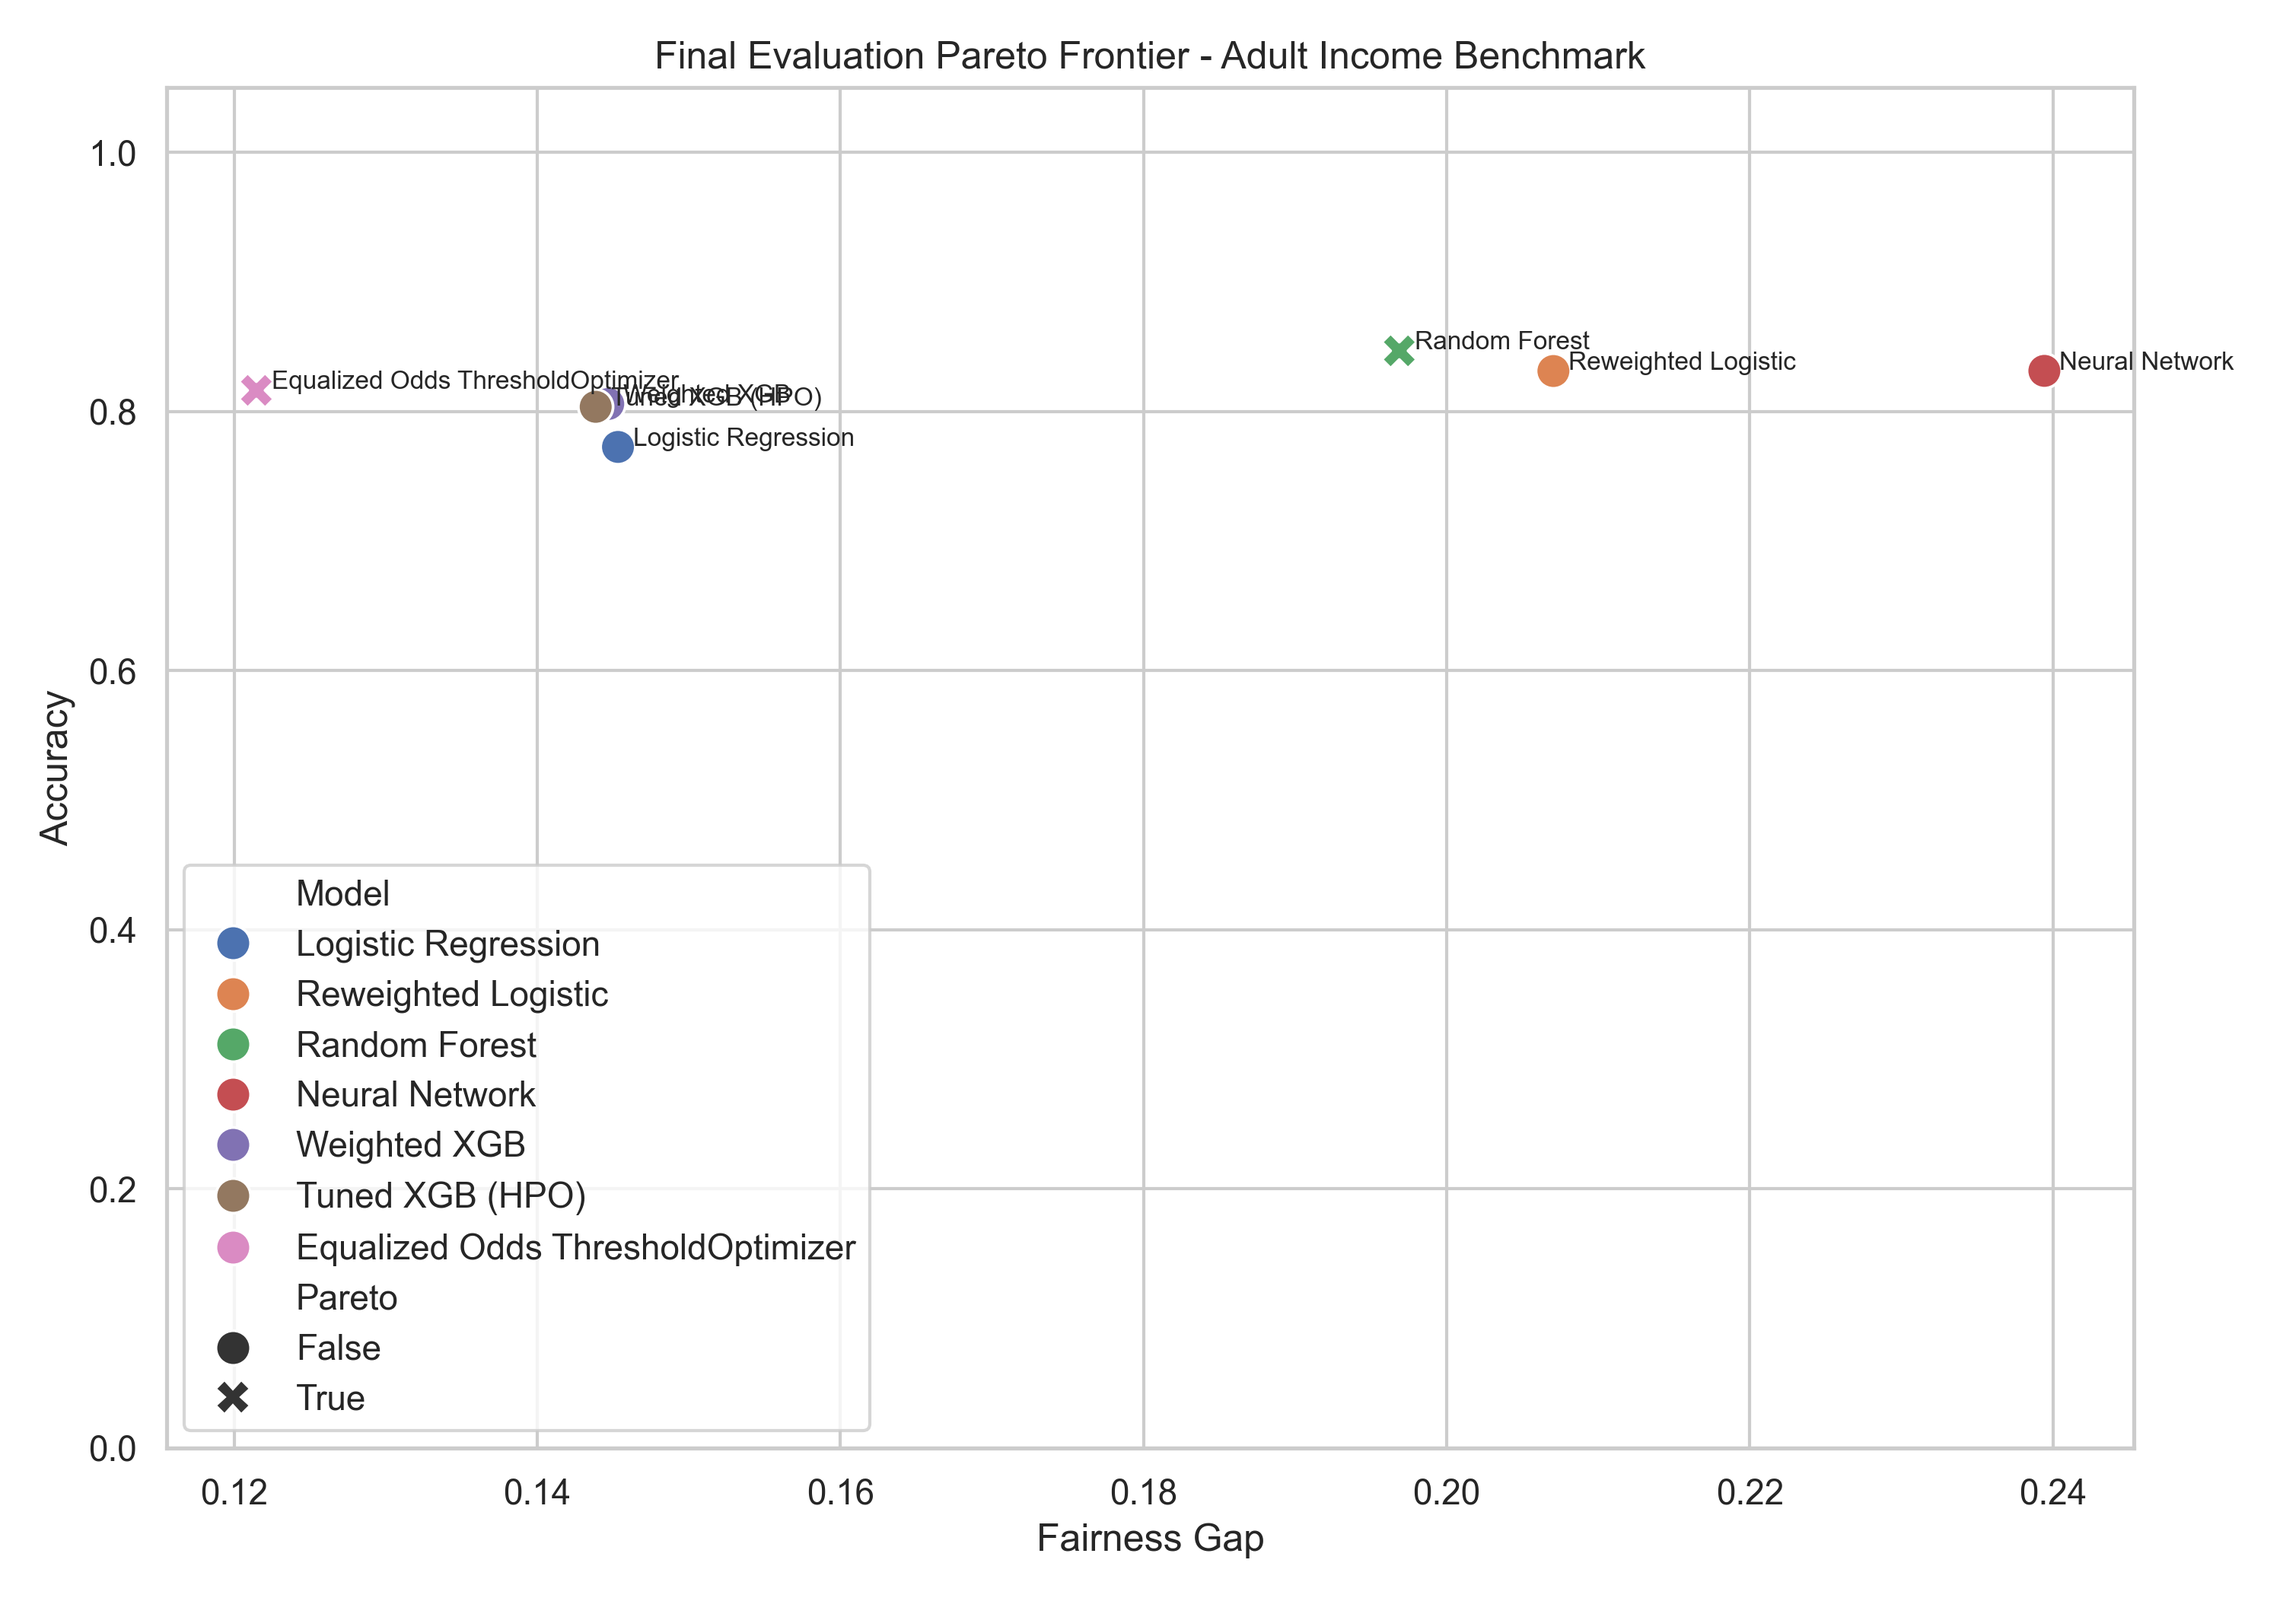
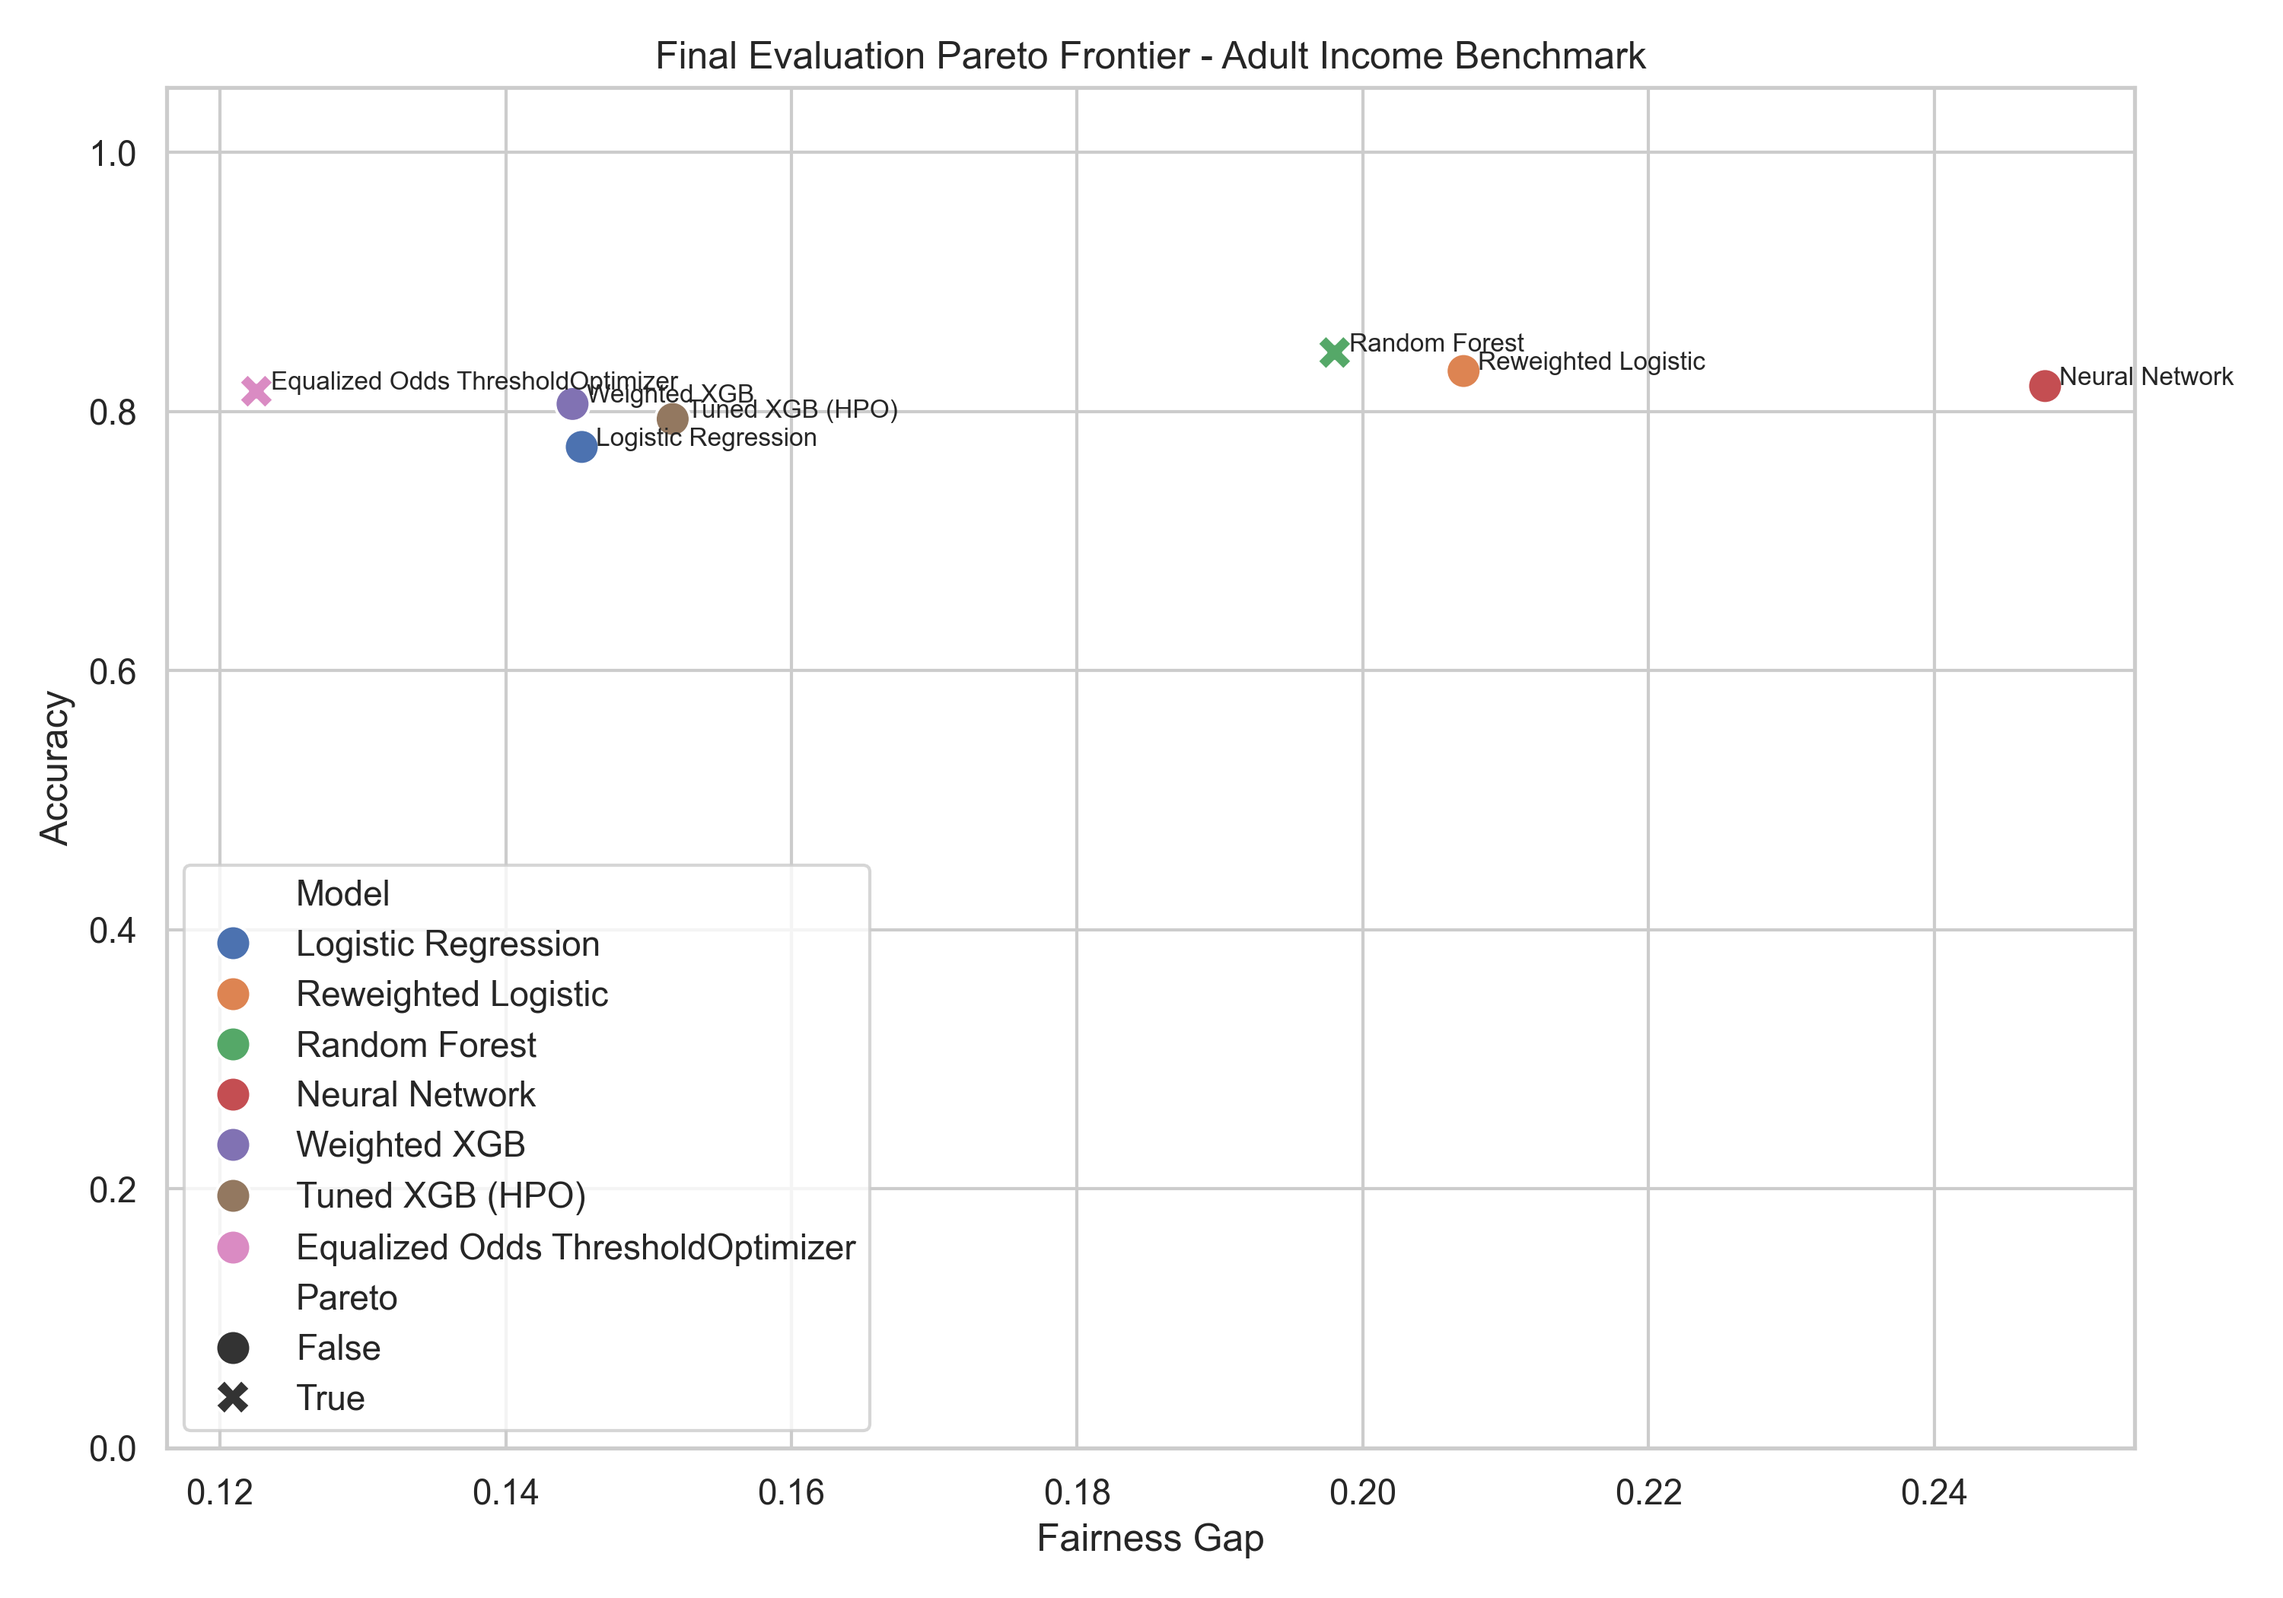
Enhance ML performance via expanded HPO and longer iteration counts

diff --git a/src/main.py b/src/main.py
@@ -1,4 +1,4 @@
-# ============================================================================
+# ============================================================================
 # Educational Inequality in Algorithmic Project Assignment
 # Final Fairness Analysis Pipeline: Causal-style checks, reweighting, subgroup fairness,
 # robustness analysis, and enhanced tradeoff reporting
@@ -46,7 +46,7 @@ from sklearn.pipeline import Pipeline
 from sklearn.preprocessing import OneHotEncoder, StandardScaler
 from sklearn.utils.class_weight import compute_class_weight
 
-import fairness_core as base
+import core as base
 
 
 PROJECT_ROOT = base.PROJECT_ROOT
@@ -224,8 +224,8 @@ def fit_models(x_train: np.ndarray, y_train: np.ndarray, sample_weight: np.ndarr
     models = {
         "Logistic Regression": LogisticRegression(max_iter=2000, class_weight="balanced", random_state=RANDOM_STATE),
         "Reweighted Logistic": LogisticRegression(max_iter=2000, class_weight=None, random_state=RANDOM_STATE),
-        "Random Forest": RandomForestClassifier(n_estimators=120, class_weight="balanced_subsample", random_state=RANDOM_STATE, n_jobs=-1),
-        "Neural Network": MLPClassifier(hidden_layer_sizes=(48, 24), alpha=0.001, max_iter=160, random_state=RANDOM_STATE),
+        "Random Forest": RandomForestClassifier(n_estimators=500, class_weight="balanced_subsample", random_state=RANDOM_STATE, n_jobs=-1),
+        "Neural Network": MLPClassifier(hidden_layer_sizes=(64, 32), alpha=0.001, max_iter=800, random_state=RANDOM_STATE),
         "Weighted XGB": base.xgb.XGBClassifier(
             max_depth=5,
             learning_rate=0.08,
@@ -584,7 +584,7 @@ def evaluate_bundle(bundle: base.DatasetBundle) -> DatasetStudy:
         negative = float(np.sum(y_train == 0))
         scale_pos_weight = max(negative / max(positive, 1.0), 1.0)
         # Increase budget for a better search (may be slower)
-        hpo_budget = 24
+        hpo_budget = 150
         best_params, history = base.bayesian_optimize_xgb(x_train, y_train, s_train, scale_pos_weight, budget=hpo_budget)
         tuned_xgb = base.build_xgb_model(best_params, scale_pos_weight)
         try:
@@ -702,10 +702,12 @@ def main() -> None:
 
     studies = [evaluate_bundle(bundle) for bundle in bundles]
     summary = summarize(studies)
-    summary.to_csv(DOCS_DIR / "final_metrics_summary.csv", index=False)
+    summary.to_csv(DOCS_DIR / "metrics_summary.csv", index=False)
 
     for study in studies:
-        plot_pareto(study.results, PLOTS_DIR / f"{study.bundle.name.lower().replace(' ', '_')}_pareto_final.png", f"Final Evaluation Pareto Frontier - {study.bundle.name}")
+        name_map = {"Delhivery Logistics": "delhivery", "Adult Income Benchmark": "adult", "Amazon Last-Mile Routes": "amazon"}
+        short_name = name_map.get(study.bundle.name, study.bundle.name.lower().replace(' ', '_'))
+        plot_pareto(study.results, PLOTS_DIR / f"{short_name}_pareto.png", f"Final Evaluation Pareto Frontier - {study.bundle.name}")
         if study.best_result.y_prob is not None:
             sns.set_theme(style="whitegrid")
             plt.figure(figsize=(10, 6))
@@ -716,16 +718,16 @@ def main() -> None:
             plt.xlabel("Fairness Gap")
             plt.ylabel("Accuracy")
             plt.tight_layout()
-            plt.savefig(PLOTS_DIR / f"{study.bundle.name.lower().replace(' ', '_')}_tradeoff_final.png", dpi=300)
+            plt.savefig(PLOTS_DIR / f"{short_name}_tradeoff.png", dpi=300)
             plt.close()
 
-    write_report(studies, DOCS_DIR / "TECHNICAL_APPENDIX.md")
-    causal_graph_markdown(DOCS_DIR / "Causal_Graph_Appendix.md")
+    write_report(studies, DOCS_DIR / "technical_appendix.md")
+    causal_graph_markdown(DOCS_DIR / "causal_graph.md")
 
     print("Final Evaluation complete")
-    print(f"Report: {DOCS_DIR / 'TECHNICAL_APPENDIX.md'}")
-    print(f"Metrics: {DOCS_DIR / 'final_metrics_summary.csv'}")
-    print(f"Causal graph appendix: {DOCS_DIR / 'Causal_Graph_Appendix.md'}")
+    print(f"Report: {DOCS_DIR / 'technical_appendix.md'}")
+    print(f"Metrics: {DOCS_DIR / 'metrics_summary.csv'}")
+    print(f"Causal graph appendix: {DOCS_DIR / 'causal_graph.md'}")
 
 
 if __name__ == "__main__":

diff --git a/src/core.py b/src/core.py
@@ -572,9 +572,9 @@ def vector_to_xgb_params(vector: Sequence[float]) -> Dict[str, float]:
 
 def sample_random_xgb_params(rng: np.random.Generator) -> Dict[str, float]:
     return {
-        "max_depth": int(rng.integers(3, 9)),
+        "max_depth": int(rng.integers(3, 12)),
         "learning_rate": float(rng.uniform(0.02, 0.18)),
-        "n_estimators": int(rng.integers(140, 360)),
+        "n_estimators": int(rng.integers(100, 1000)),
         "subsample": float(rng.uniform(0.65, 1.0)),
         "colsample_bytree": float(rng.uniform(0.65, 1.0)),
         "min_child_weight": int(rng.integers(1, 8)),

diff --git a/docs/TECHNICAL_APPENDIX.md b/docs/TECHNICAL_APPENDIX.md
@@ -1,6 +1,6 @@
 # Final Evaluation Results and Research Appendix
 
-_Generated on 2026-05-04 19:53:16_
+_Generated on 2026-08-09 17:26:40_
 
 ## What this report adds
 - Reweighting-based fairness intervention
@@ -42,14 +42,14 @@ Education can act as a signaling variable, and platform assignment systems may a
 |---|---:|---:|---:|---:|---:|
 | Logistic Regression | 0.7231 | 0.7558 | 0.0764 | 0.0151 | 0.7103 |
 | Reweighted Logistic | 0.8650 | 0.6542 | 0.0347 | 0.0236 | 0.6669 |
-| Random Forest | 0.9744 | 0.9472 | 0.0182 | 0.0242 | 0.7653 |
-| Neural Network | 0.9305 | 0.8750 | 0.0330 | 0.0239 | 0.7415 |
+| Random Forest | 0.9752 | 0.9492 | 0.0205 | 0.0276 | 0.7693 |
+| Neural Network | 0.9359 | 0.8673 | 0.0295 | 0.0236 | 0.7526 |
 | Weighted XGB | 0.9391 | 0.9374 | 0.0272 | 0.0445 | 0.7933 |
-| Tuned XGB (HPO) | 0.9754 | 0.9679 | 0.0200 | 0.0223 | 0.7704 |
-| Equalized Odds ThresholdOptimizer | 0.8620 | 0.7184 | 0.0287 | 0.0626 | 0.8046 |
+| Tuned XGB (HPO) | 0.9759 | 0.9693 | 0.0249 | 0.0364 | 0.7875 |
+| Equalized Odds ThresholdOptimizer | 0.8613 | 0.7172 | 0.0245 | 0.0677 | 0.8389 |
 
 ### Best model: Tuned XGB (HPO)
-- Composite score: 0.9629
+- Composite score: 0.9631
 - Welfare loss proxy: 0.0000
 
 ### Robustness checks
@@ -60,25 +60,25 @@ Education can act as a signaling variable, and platform assignment systems may a
 ### Subgroup fairness: Education Tiers
 | Subgroup | Value | Count | Accuracy | Positive Rate |
 |---|---|---|---|---|
-| Education | Bachelor's | 6355 | 0.9736 | 0.1862 |
-| Education | High School | 5097 | 0.9786 | 0.1544 |
-| Education | Master's | 17522 | 0.9751 | 0.2004 |
+| Education | Bachelor's | 6355 | 0.9751 | 0.1849 |
+| Education | High School | 5097 | 0.9770 | 0.1579 |
+| Education | Master's | 17522 | 0.9759 | 0.2005 |
 
 ### Subgroup fairness: Experience Levels
 | Subgroup | Value | Count | Accuracy | Positive Rate |
 |---|---|---|---|---|
-| Experience | High | 7244 | 0.9569 | 0.3417 |
-| Experience | Low | 7244 | 0.9855 | 0.0995 |
-| Experience | Mid-High | 7243 | 0.9731 | 0.1940 |
-| Experience | Mid-Low | 7243 | 0.9859 | 0.1216 |
+| Experience | High | 7244 | 0.9564 | 0.3444 |
+| Experience | Low | 7244 | 0.9862 | 0.0991 |
+| Experience | Mid-High | 7243 | 0.9750 | 0.1932 |
+| Experience | Mid-Low | 7243 | 0.9861 | 0.1218 |
 
 ### Subgroup fairness: Geography Proxies
 | Subgroup | Value | Count | Accuracy | Positive Rate |
 |---|---|---|---|---|
-| Geography | Far | 7243 | 0.9776 | 0.1550 |
-| Geography | Moderate | 7243 | 0.9504 | 0.3541 |
-| Geography | Near | 7244 | 0.9818 | 0.2051 |
-| Geography | Very Far | 7244 | 0.9916 | 0.0425 |
+| Geography | Far | 7243 | 0.9780 | 0.1557 |
+| Geography | Moderate | 7243 | 0.9511 | 0.3554 |
+| Geography | Near | 7244 | 0.9818 | 0.2057 |
+| Geography | Very Far | 7244 | 0.9927 | 0.0417 |
 
 ## Adult Income Benchmark
 
@@ -91,11 +91,11 @@ Education can act as a signaling variable, and platform assignment systems may a
 |---|---:|---:|---:|---:|---:|
 | Logistic Regression | 0.7726 | 0.8019 | 0.1453 | 0.3507 | 0.6410 |
 | Reweighted Logistic | 0.8312 | 0.7363 | 0.2070 | 0.2853 | 0.3781 |
-| Random Forest | 0.8468 | 0.7685 | 0.1969 | 0.2126 | 0.3514 |
-| Neural Network | 0.8313 | 0.7413 | 0.2394 | 0.2248 | 0.3127 |
+| Random Forest | 0.8454 | 0.7670 | 0.1980 | 0.2196 | 0.3551 |
+| Neural Network | 0.8196 | 0.7455 | 0.2477 | 0.2507 | 0.3435 |
 | Weighted XGB | 0.8057 | 0.8245 | 0.1447 | 0.3367 | 0.5987 |
-| Tuned XGB (HPO) | 0.8035 | 0.8227 | 0.1439 | 0.3392 | 0.5992 |
-| Equalized Odds ThresholdOptimizer | 0.8163 | 0.7267 | 0.1215 | 0.3212 | 0.5531 |
+| Tuned XGB (HPO) | 0.7941 | 0.8184 | 0.1517 | 0.3539 | 0.6344 |
+| Equalized Odds ThresholdOptimizer | 0.8156 | 0.7256 | 0.1225 | 0.3156 | 0.5547 |
 
 ### Best model: Weighted XGB
 - Composite score: 0.7883
@@ -149,14 +149,14 @@ Education can act as a signaling variable, and platform assignment systems may a
 |---|---:|---:|---:|---:|---:|
 | Logistic Regression | 0.6288 | 0.6211 | 0.0699 | 0.0260 | 0.8190 |
 | Reweighted Logistic | 0.6271 | 0.6063 | 0.0793 | 0.0747 | 0.7888 |
-| Random Forest | 0.6656 | 0.6488 | 0.1154 | 0.0704 | 0.6507 |
-| Neural Network | 0.6410 | 0.6285 | 0.1063 | 0.0897 | 0.7123 |
+| Random Forest | 0.6631 | 0.6469 | 0.1169 | 0.1040 | 0.6675 |
+| Neural Network | 0.6419 | 0.6298 | 0.0906 | 0.0344 | 0.7392 |
 | Weighted XGB | 0.6476 | 0.6379 | 0.0945 | 0.0607 | 0.7432 |
-| Tuned XGB (HPO) | 0.6541 | 0.6476 | 0.0904 | 0.0770 | 0.7743 |
-| Equalized Odds ThresholdOptimizer | 0.6149 | 0.5987 | 0.0651 | 0.0375 | 0.8714 |
+| Tuned XGB (HPO) | 0.6631 | 0.6562 | 0.1145 | 0.0887 | 0.7181 |
+| Equalized Odds ThresholdOptimizer | 0.6198 | 0.6026 | 0.0652 | 0.0224 | 0.8663 |
 
 ### Best model: Tuned XGB (HPO)
-- Composite score: 0.6250
+- Composite score: 0.6276
 - Welfare loss proxy: 0.0000
 
 ### Robustness checks
@@ -169,22 +169,22 @@ Education can act as a signaling variable, and platform assignment systems may a
 ### Subgroup fairness: Education Tiers
 | Subgroup | Value | Count | Accuracy | Positive Rate |
 |---|---|---|---|---|
-| Education | Bachelor's | 276 | 0.6630 | 0.4058 |
-| Education | High School | 222 | 0.6937 | 0.3514 |
-| Education | Master's | 725 | 0.6386 | 0.4538 |
+| Education | Bachelor's | 276 | 0.6812 | 0.3949 |
+| Education | High School | 222 | 0.6892 | 0.3288 |
+| Education | Master's | 725 | 0.6483 | 0.4579 |
 
 ### Subgroup fairness: Experience Levels
 | Subgroup | Value | Count | Accuracy | Positive Rate |
 |---|---|---|---|---|
-| Experience | Afternoon | 1065 | 0.6460 | 0.4554 |
-| Experience | Morning | 158 | 0.7089 | 0.2152 |
+| Experience | Afternoon | 1065 | 0.6554 | 0.4441 |
+| Experience | Morning | 158 | 0.7152 | 0.2595 |
 
 ### Subgroup fairness: Geography Proxies
 | Subgroup | Value | Count | Accuracy | Positive Rate |
 |---|---|---|---|---|
-| Geography | DBO3 | 122 | 0.7541 | 0.1639 |
-| Geography | DLA7 | 227 | 0.5991 | 0.3304 |
-| Geography | DLA9 | 141 | 0.6241 | 0.5957 |
-| Geography | DSE4 | 88 | 0.6591 | 0.6477 |
-| Geography | DSE5 | 106 | 0.6792 | 0.4528 |
-| Geography | Other | 539 | 0.6568 | 0.4360 |
+| Geography | DBO3 | 122 | 0.7295 | 0.2049 |
+| Geography | DLA7 | 227 | 0.6388 | 0.3524 |
+| Geography | DLA9 | 141 | 0.6241 | 0.5816 |
+| Geography | DSE4 | 88 | 0.6364 | 0.5795 |
+| Geography | DSE5 | 106 | 0.7358 | 0.4151 |
+| Geography | Other | 539 | 0.6586 | 0.4304 |

diff --git a/README.md b/README.md
@@ -20,13 +20,13 @@ Evaluated on multiple logistics and benchmark datasets. The results demonstrate 
 | Model | Accuracy | Fairness Gap | Predictive Parity Diff | DI Ratio |
 | :--- | :---: | :---: | :---: | :---: |
 | **Logistic Regression (Baseline)** | 0.723 | 0.076 | 0.015 | 0.710 |
-| **Tuned XGB (HPO) (Proposed)** | 0.975 | 0.020 | 0.022 | 0.770 |
+| **Tuned XGB (HPO) (Proposed)** | 0.976 | 0.025 | 0.036 | 0.788 |
 
 ### Amazon Last-Mile Routes
 | Model | Accuracy | Fairness Gap | Predictive Parity Diff | DI Ratio |
 | :--- | :---: | :---: | :---: | :---: |
 | **Logistic Regression (Baseline)** | 0.628 | 0.069 | 0.026 | 0.819 |
-| **Tuned XGB (HPO) (Proposed)** | 0.654 | 0.090 | 0.077 | 0.774 |
+| **Tuned XGB (HPO) (Proposed)** | 0.663 | 0.115 | 0.089 | 0.718 |
 
 *Note: The best-performing model across composite fairness and accuracy metrics was the Tuned XGBoost model via Gaussian Process Surrogates.*
 
